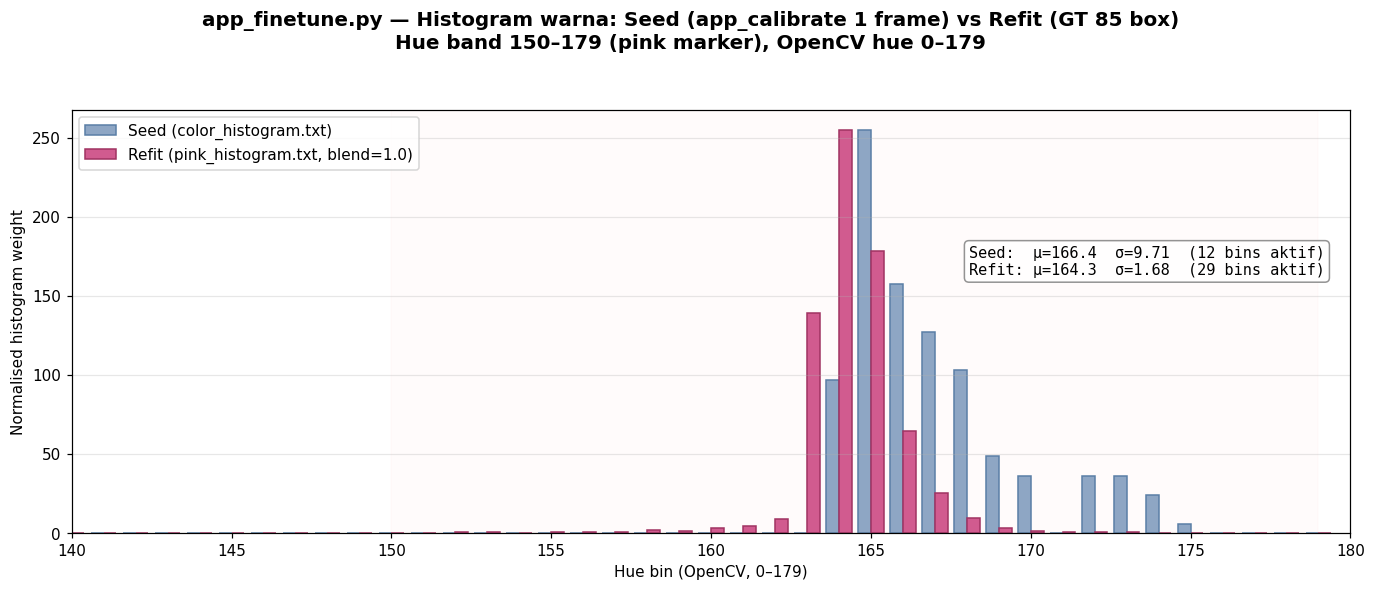
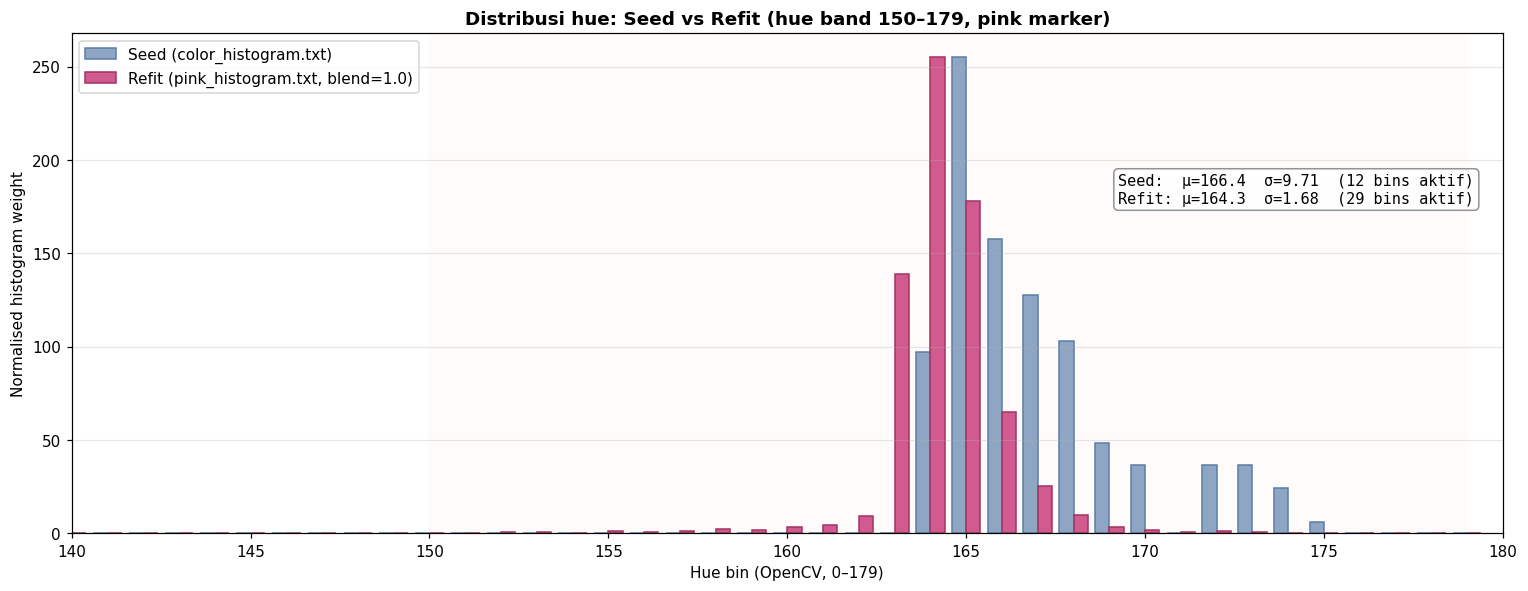
update logbook

diff --git a/10_2 Agustus 2026/logbook_2_agustus_2026.md b/10_2 Agustus 2026/logbook_2_agustus_2026.md
@@ -56,6 +56,12 @@ drone-seeker/dataset/
 
 `app_calibrate.py` normalnya interaktif: pengguna menggambar ROI di satu frame, histogram hue di dalam ROI (dengan gate S/V) menjadi `color_histogram.txt`. Untuk sesi ini seed disiapkan dengan cara setara (script `scratchpad/emulate_app_calibrate.py`) yang menggunakan **satu kotak GT di frame tengah training** sebagai ROI — piksel diambil dengan S ≥ 40 dan V ≥ 40, kemudian histogram 180-bin dinormalisasi ke max = 255.
 
+**Contoh visual satu shot `app_calibrate.py`** — frame + ROI + histogram batang seed:
+
+![Contoh ROI app_calibrate + histogram batang seed](plot_calibrate_roi_example.png)
+
+Panel kiri-atas: frame 299 dari klip training dengan kotak GT hijau (26×15 px) di ujung runway. Panel kanan-atas: ROI diperbesar 15× — terlihat sebaran hue pink pekat di tengah, dengan 307/390 piksel lolos S/V gate (S ≥ 40, V ≥ 40). Panel bawah: histogram batang hue dari 307 piksel yang lolos, dinormalisasi max = 255 dan disimpan langsung sebagai `color_histogram.txt` (12 bin aktif, μ = 166.4, σ = 9.71, peak bin 165). Cakupan sempit karena satu ROI di satu frame — cukup menangkap warna target di frame tersebut, tetapi belum menampung variasi hue sepanjang misi (masalah yang diselesaikan `app_finetune.py` di §4).
+
 **Statistik seed (`color_histogram.txt`):**
 - Frame ROI: 299 (tengah 85 positive training)
 - 307 piksel disampling (dari 390 total dalam ROI 26×15)
@@ -107,7 +113,31 @@ Seed menyebar lebar (σ=9.71, 12 bins aktif) dengan ekor sampai bin 175 — hue 
 
 ![Skor seed vs refit — training dan holdout](plot_finetune_scores.png)
 
-### 5.3 Matriks Konfusi Lengkap
+### 5.3 Rumus Metrik Evaluasi
+
+Dari TP/FP/FN diturunkan tiga metrik ringkas yang dipakai di tabel §5.4, mengikuti formulasi baku Van Rijsbergen [[35]](../../drone-seeker/docs/05-BIBLIOGRAPHY.md), Bab 7:
+
+$$\text{Precision} = \frac{\text{TP}}{\text{TP} + \text{FP}} \qquad \text{Recall} = \frac{\text{TP}}{\text{TP} + \text{FN}}$$
+
+F1 bukan rumus yang berdiri sendiri, melainkan kasus khusus **F_β-measure** — bentuk umum yang dirumuskan Van Rijsbergen:
+
+$$F_\beta = \frac{(1 + \beta^2) \cdot \text{Precision} \cdot \text{Recall}}{\beta^2 \cdot \text{Precision} + \text{Recall}}$$
+
+Bentuk aslinya adalah **E-measure** (*effectiveness*), dengan bobot α ∈ (0, 1) yang kemudian disubstitusi menjadi β agar lebih intuitif:
+
+$$E = 1 - \frac{1}{\alpha \dfrac{1}{\text{Precision}} + (1 - \alpha) \dfrac{1}{\text{Recall}}} \qquad \beta^2 = \frac{1 - \alpha}{\alpha} \qquad F_\beta = 1 - E$$
+
+**β = seberapa kali lipat recall dianggap lebih penting daripada precision.** Substitusi β = 1 (α = 0.5) memberi bobot setimbang dan menghasilkan F1 yang biasa dipakai:
+
+$$F_1 = \frac{2 \cdot \text{Precision} \cdot \text{Recall}}{\text{Precision} + \text{Recall}}$$
+
+Contoh dengan angka holdout × refit (TP = 85, FP = 7, FN = 7):
+
+$$P = \frac{85}{85 + 7} = 0.924 \qquad R = \frac{85}{85 + 7} = 0.924 \qquad F_1 = \frac{2 \cdot 0.924 \cdot 0.924}{0.924 + 0.924} = 0.924$$
+
+Catatan: misi kamikaze secara profil biaya sebenarnya cocok dengan β > 1 (misal β = 2, artinya kehilangan target 2× lebih mahal dari false alarm). Sesi ini tetap melaporkan F1 (β = 1) sebagai ringkasan, tetapi keputusan accept/reject memakai objektif **J** — lihat §5.5, karena J juga bisa menghukum kasus *combined FP+FN* terpisah, sesuatu yang tidak bisa diekspresikan F_β pada nilai β mana pun.
+
+### 5.4 Matriks Konfusi Lengkap
 
 | Klip × Histogram | TP | FN | FP | TN | FP+FN comb | Precision | Recall | F1 | **J** |
 |---|---:|---:|---:|---:|:---:|:---:|:---:|:---:|:---:|
@@ -116,7 +146,7 @@ Seed menyebar lebar (σ=9.71, 12 bins aktif) dengan ekor sampai bin 175 — hue 
 | Holdout × Seed | 63 | 29 | 30 | 6 | 28 | 0.677 | 0.685 | 0.681 | **+0.043** |
 | **Holdout × Refit** | **85** | **7** | **7** | **6** | **5** | **0.924** | **0.924** | **0.924** | **+0.772** |
 
-### 5.4 Interpretasi
+### 5.5 Interpretasi
 
 **Holdout (data yang menentukan) — refit menang telak:**
 - **TP naik 22** (63 → 85) — recall dari 0.685 → 0.924
@@ -141,7 +171,7 @@ Seed menyebar lebar (σ=9.71, 12 bins aktif) dengan ekor sampai bin 175 — hue 
 | **F1** | Ringkasan (bukan decision) | Naik 0.681 → 0.924, konfirmasi keseimbangan P+R |
 | **J** | ⭐⭐ Metrik formal accept/reject | Skript memilih refit karena ΔJ holdout **+0.729** |
 
-**Cara membaca:** Recall dulu (harus ≥ 0.85 di holdout) → cek precision (juga ≥ 0.85 untuk safety) → J sebagai *tie-breaker* dan kriteria formal. F1 tidak dijadikan kriteria acceptance karena F1 selalu bobot P+R setimbang, sementara misi kamikaze menyaratkan bobot yang asimetris (kehilangan target > false alarm). Detail lengkap di [`docs/06-COLOR HISTOGRAM FINETUNING.md`](../../drone-seeker/docs/06-COLOR HISTOGRAM FINETUNING.md) §2.4a.
+**Cara membaca:** Recall dulu (harus ≥ 0.85 di holdout) → cek precision (juga ≥ 0.85 untuk safety) → J sebagai *tie-breaker* dan kriteria formal. F1 tidak dijadikan kriteria acceptance karena F1 = F_β dengan β = 1 (§5.3) — bobot P+R selalu setimbang, sementara misi kamikaze menyaratkan bobot yang asimetris (kehilangan target > false alarm). Detail lengkap di [`docs/06-COLOR HISTOGRAM FINETUNING.md`](../../drone-seeker/docs/06-COLOR HISTOGRAM FINETUNING.md) §2.4a.
 
 ---
 
